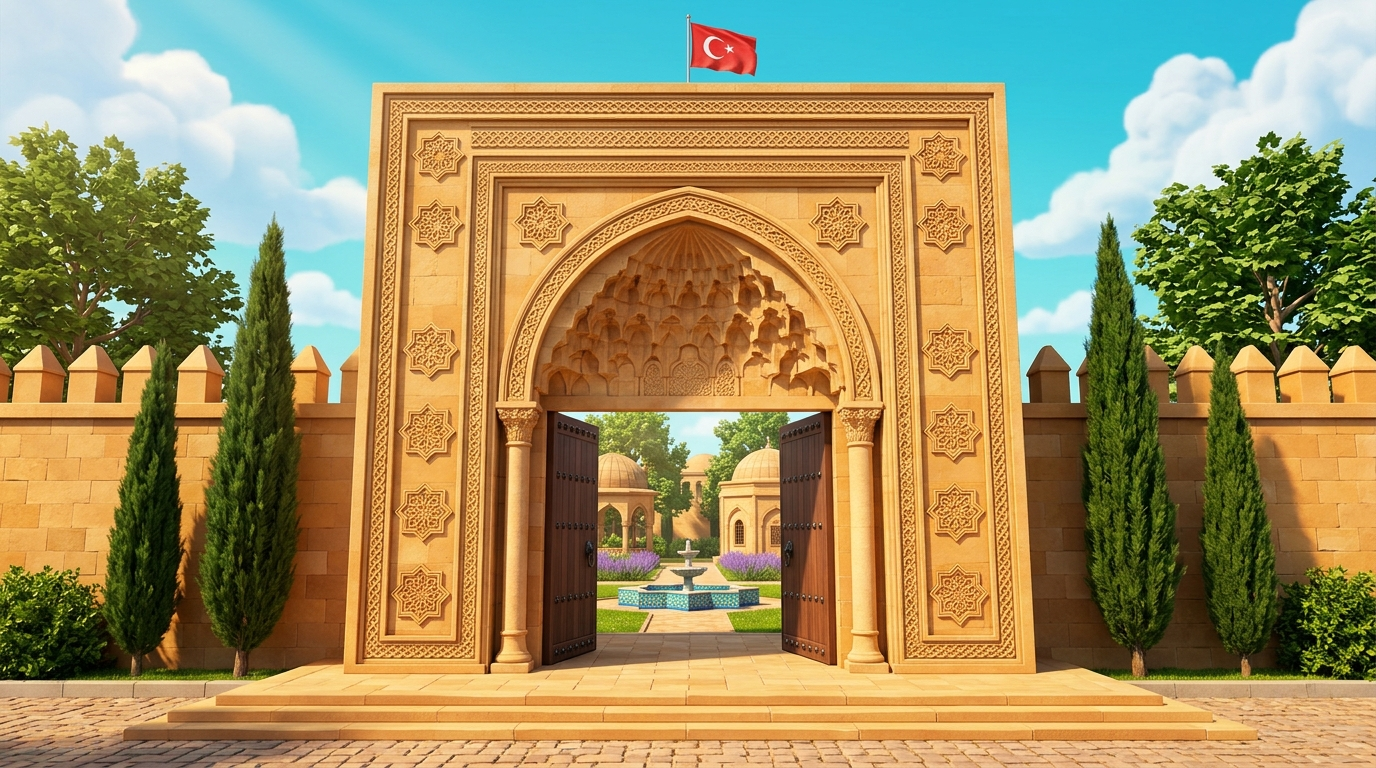
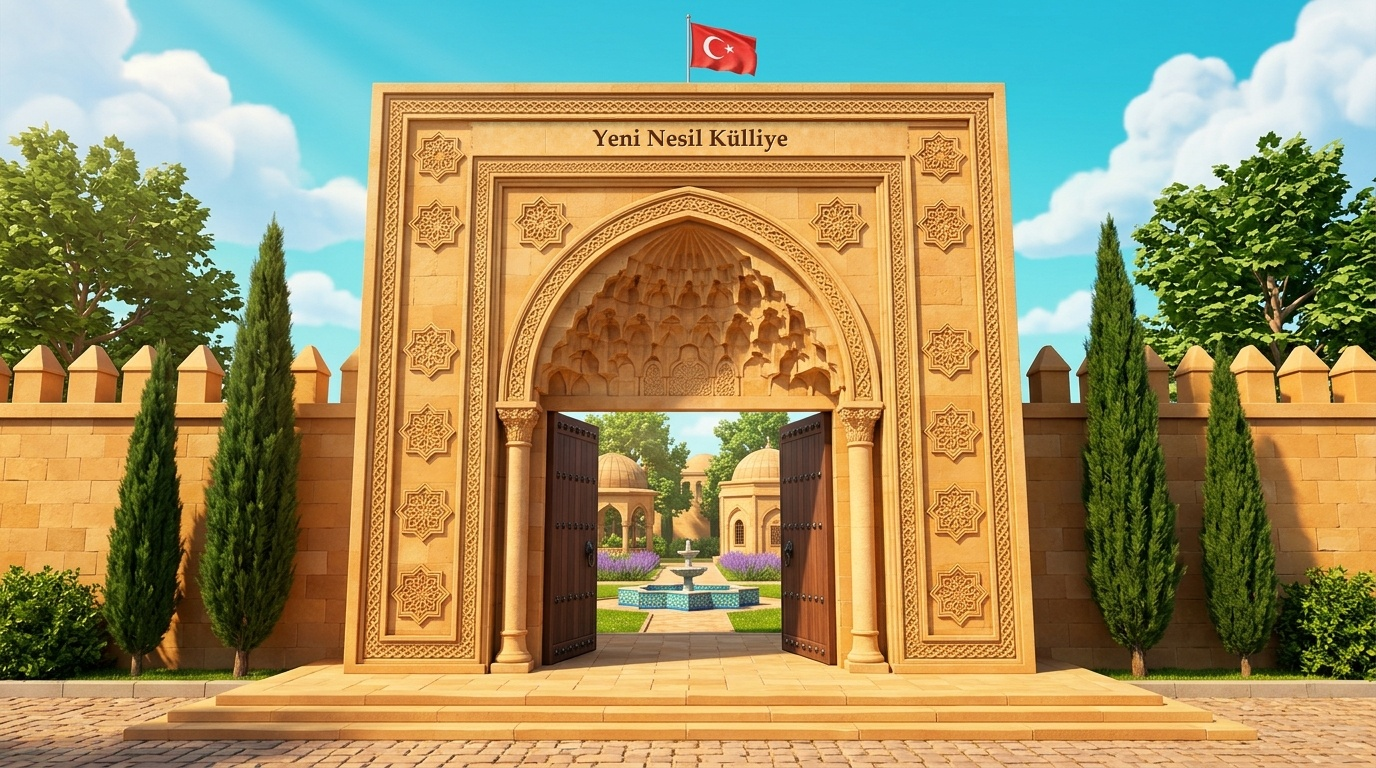
feat(entrance): integrate approved portal gate image with stone inscription and remove css text layer

Changed region(s): [[0.3438, 0.1562, 0.6562, 0.2188]]

diff --git a/src/features/entrance/CampusGateView.tsx b/src/features/entrance/CampusGateView.tsx
@@ -1,46 +1,9 @@
 import { useEffect, useState } from 'react';
 import { ArrowRight, SkipForward, Sparkles } from 'lucide-react';
-import { CAMPUS_BRAND, CAMPUS_INSCRIPTION_NAMES } from '@/src/data/brandConfig';
+import { CAMPUS_BRAND } from '@/src/data/brandConfig';
 
 interface CampusGateViewProps {
   onEnterCourtyard: () => void;
-}
-
-/**
- * Ana Giriş Taç Kapısı Mimari Taş Duvar Yazısı (Onarım 03A):
- * Referans görseldeki gibi doğrudan taş cephe yüzeyine kazınmış anıtsal kitabe.
- * Kesinlikle yapay levha çerçevesi, kutu, kenarlık veya köşe rozeti YOKTUR.
- * 1. YENİ NESİL KÜLLİYE (Büyük harf, belirgin oyma taş rölyefi)
- * 2. Dijital Öğrenme Kampüsü (Dengeli alt başlık)
- * 3. Geçmişin bilgeliği, geleceğin öğrenme dünyası (Doğal taşla bütünleşik slogan)
- */
-function ArchitecturalPortalInscription({ isOpening }: { isOpening: boolean }) {
-  return (
-    <div
-      aria-hidden="true"
-      className={`absolute top-[16%] left-1/2 -translate-x-1/2 w-[54%] sm:w-[44%] max-w-[340px] pointer-events-none transition-transform duration-700 ease-out ${
-        isOpening ? 'scale-105 filter brightness-110' : ''
-      }`}
-    >
-      {/* Doğrudan Taş Yüzeyine Kazınmış / Oyulmuş Duvar Yazısı (Tabela Kutusu veya Çerçeve Yoktur) */}
-      <div className="flex flex-col items-center justify-center text-center space-y-0.5 select-none px-2 py-1">
-        {/* 1. Ana Marka Adı (Büyük Harf, En Belirgin, Oyma Taş Rölyef Etkisi) */}
-        <span className="text-[11px] xs:text-[12px] sm:text-[14px] md:text-[15px] font-extrabold tracking-[0.09em] sm:tracking-[0.13em] text-[#221306] drop-shadow-[0_1px_0_rgba(255,255,255,0.85)] font-serif uppercase leading-tight [text-shadow:_0_1px_1px_rgba(255,255,255,0.7),_0_-1px_1px_rgba(34,19,6,0.6)]">
-          {CAMPUS_INSCRIPTION_NAMES.brand}
-        </span>
-
-        {/* 2. Alt Başlık (Daha Küçük, Zarif Taş Oyma) */}
-        <span className="text-[8.5px] xs:text-[9.5px] sm:text-[11px] font-semibold tracking-wide text-[#3d2611] drop-shadow-[0_1px_0_rgba(255,255,255,0.75)] leading-tight [text-shadow:_0_0.5px_1px_rgba(255,255,255,0.6)]">
-          {CAMPUS_BRAND.subtitle}
-        </span>
-
-        {/* 3. Slogan (En Küçük, Okunabilir, Doğal Taşla Bütünleşik) */}
-        <span className="text-[7px] xs:text-[7.5px] sm:text-[9px] font-medium text-[#573b1f] leading-snug drop-shadow-[0_0.5px_0_rgba(255,255,255,0.65)] [text-shadow:_0_0.5px_0.5px_rgba(255,255,255,0.5)] mt-0.5">
-          {CAMPUS_BRAND.slogan}
-        </span>
-      </div>
-    </div>
-  );
 }
 
 export function CampusGateView({ onEnterCourtyard }: CampusGateViewProps) {
@@ -75,15 +38,12 @@ export function CampusGateView({ onEnterCourtyard }: CampusGateViewProps) {
           />
 
           <div className="px-3.5 pt-4 pb-5 sm:px-6 sm:pt-5 sm:pb-6 space-y-3.5">
-            <header className="space-y-1 max-w-xl mx-auto">
-              <p className="text-[11px] sm:text-xs font-semibold text-[var(--seljuk-teal)] tracking-wide">
-                {CAMPUS_BRAND.subtitle}
-              </p>
+            <header className="space-y-1.5 max-w-xl mx-auto">
               <h1 className="text-2xl sm:text-3xl font-bold tracking-tight text-[var(--seljuk-navy)]">
-                {CAMPUS_BRAND.name}
+                {CAMPUS_BRAND.subtitle}
               </h1>
-              <p className="text-xs sm:text-sm text-[var(--campus-ink-muted)]">
-                Tarihî taç kapıya dokunarak veya aşağıdaki düğmeyi kullanarak aydınlık keşif avlusuna adım atabilirsin.
+              <p className="text-xs sm:text-sm font-medium text-[var(--campus-ink-muted)]">
+                {CAMPUS_BRAND.slogan}
               </p>
             </header>
 
@@ -105,9 +65,6 @@ export function CampusGateView({ onEnterCourtyard }: CampusGateViewProps) {
                   loading="eager"
                   decoding="sync"
                 />
-
-                {/* Mimari Taş Kitabe Katmanı */}
-                <ArchitecturalPortalInscription isOpening={isOpening} />
 
                 {/* Açılış Işıması Katmanı (Aura / Işık Patlaması) */}
                 <div
